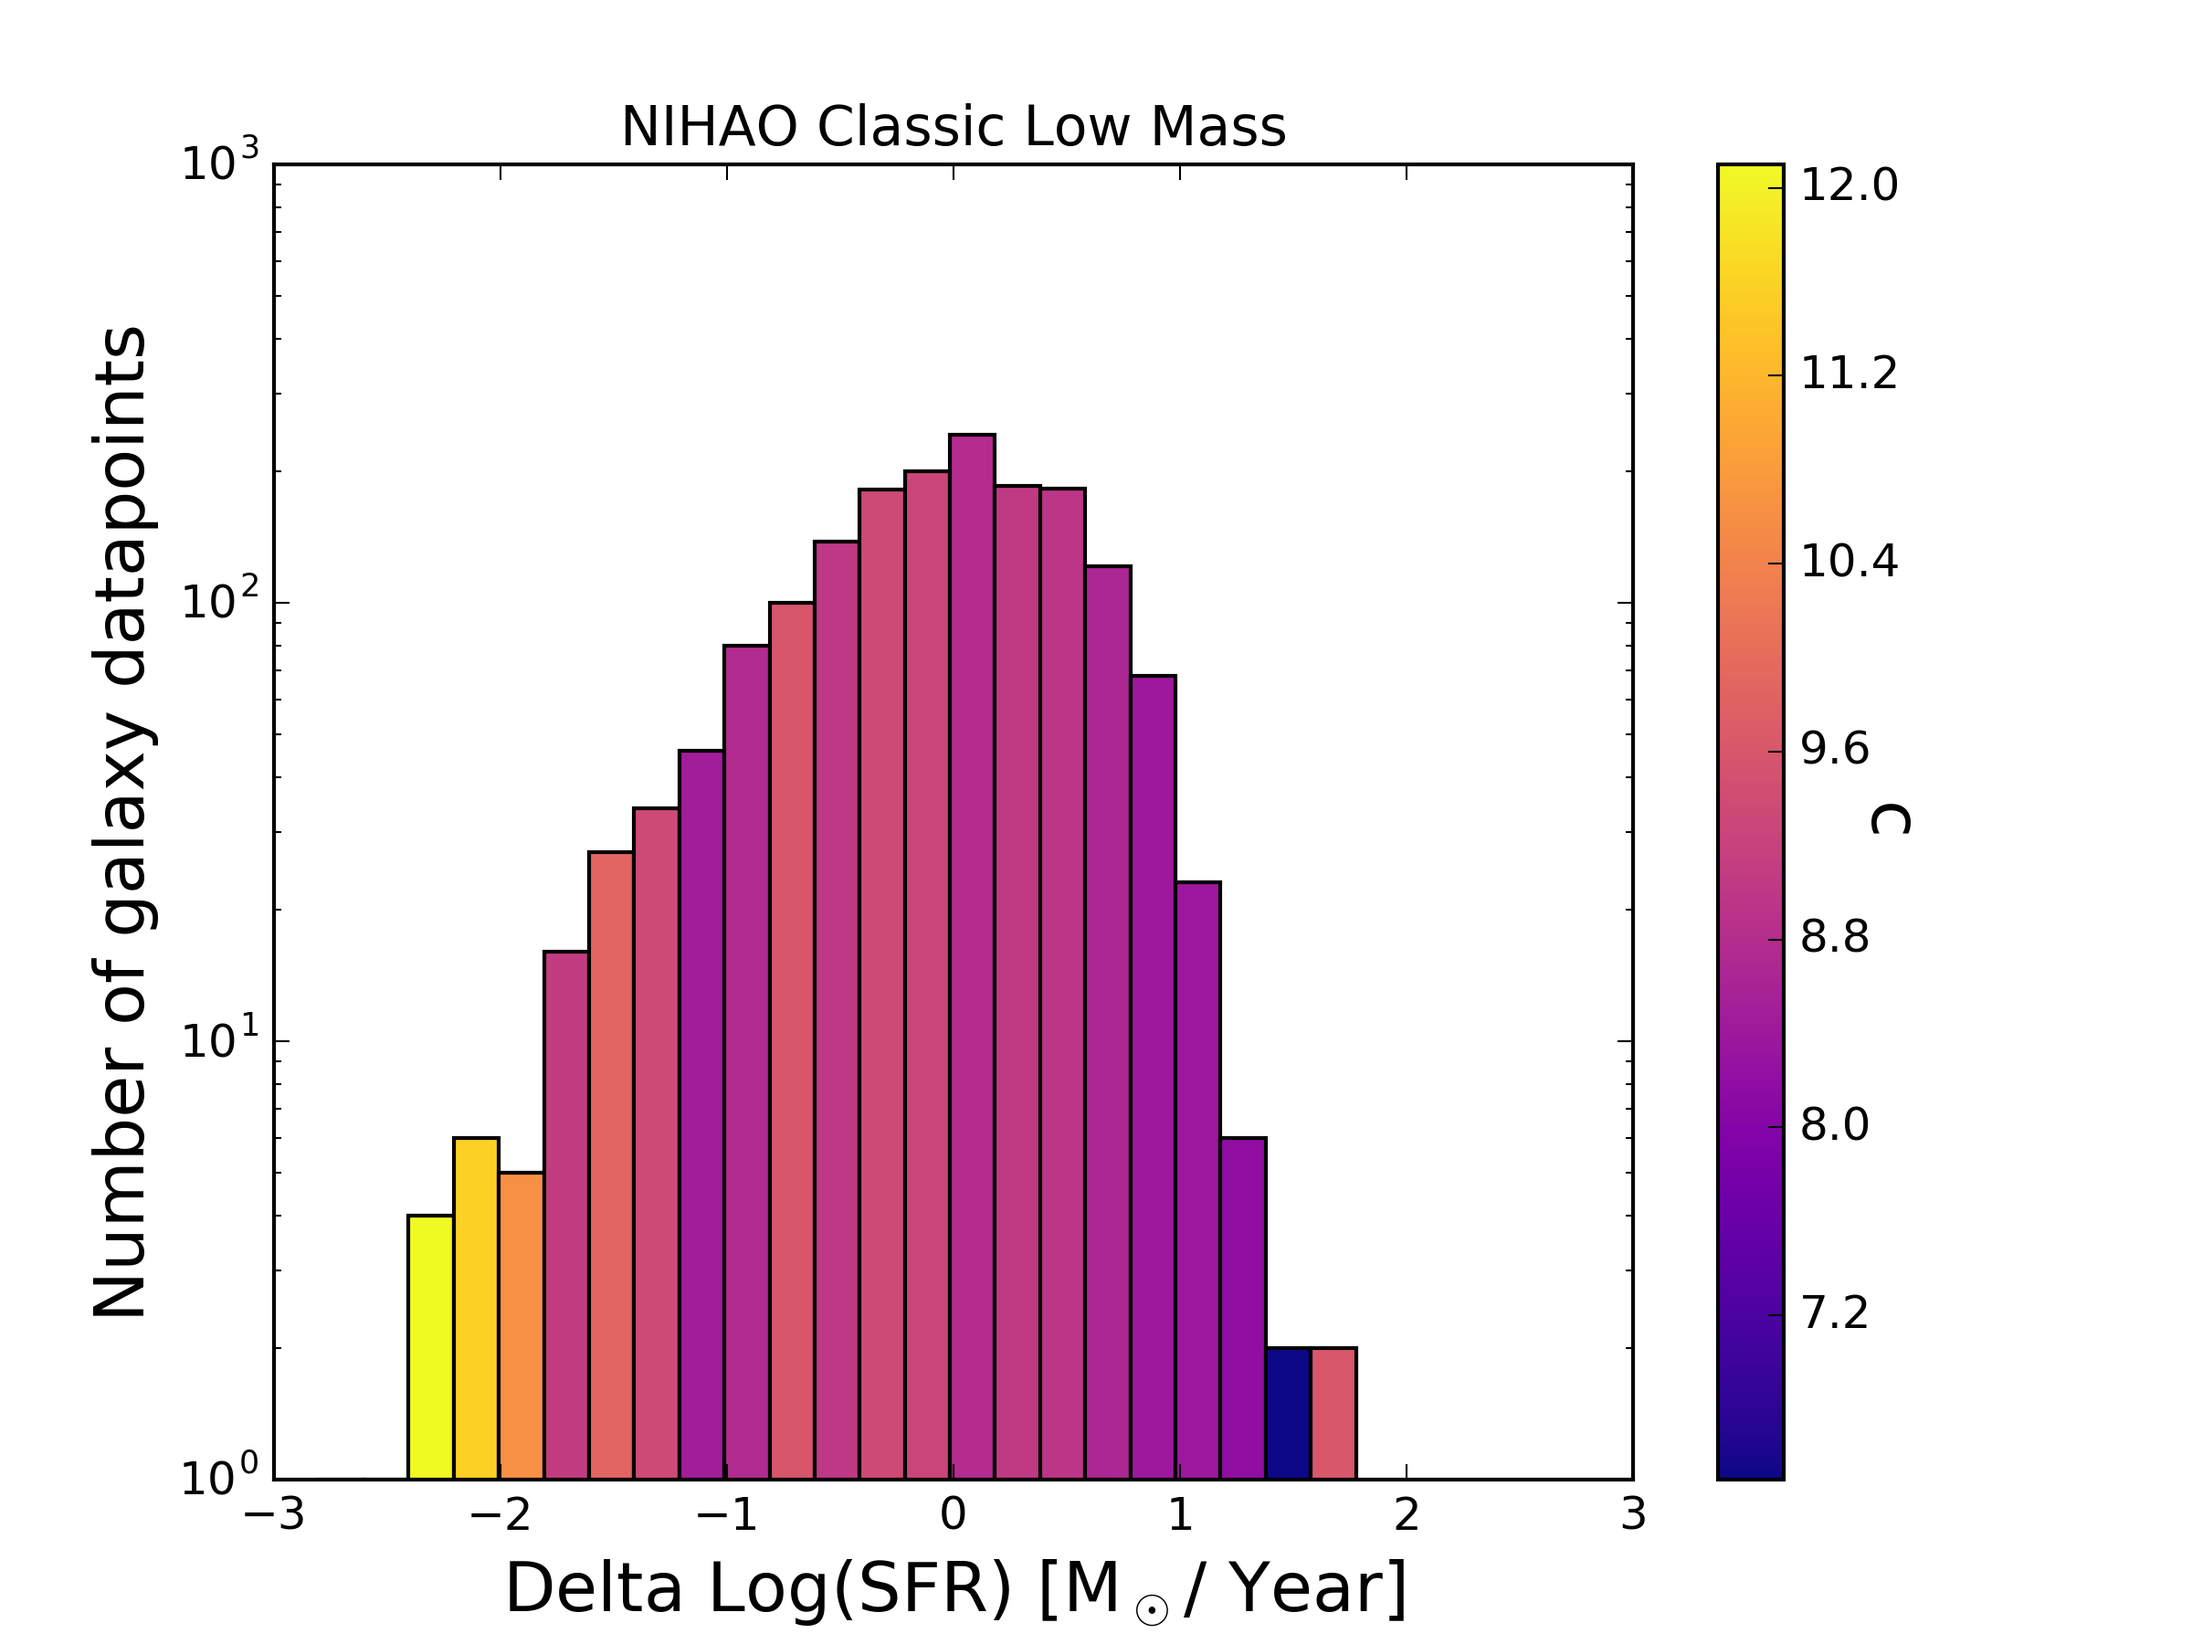
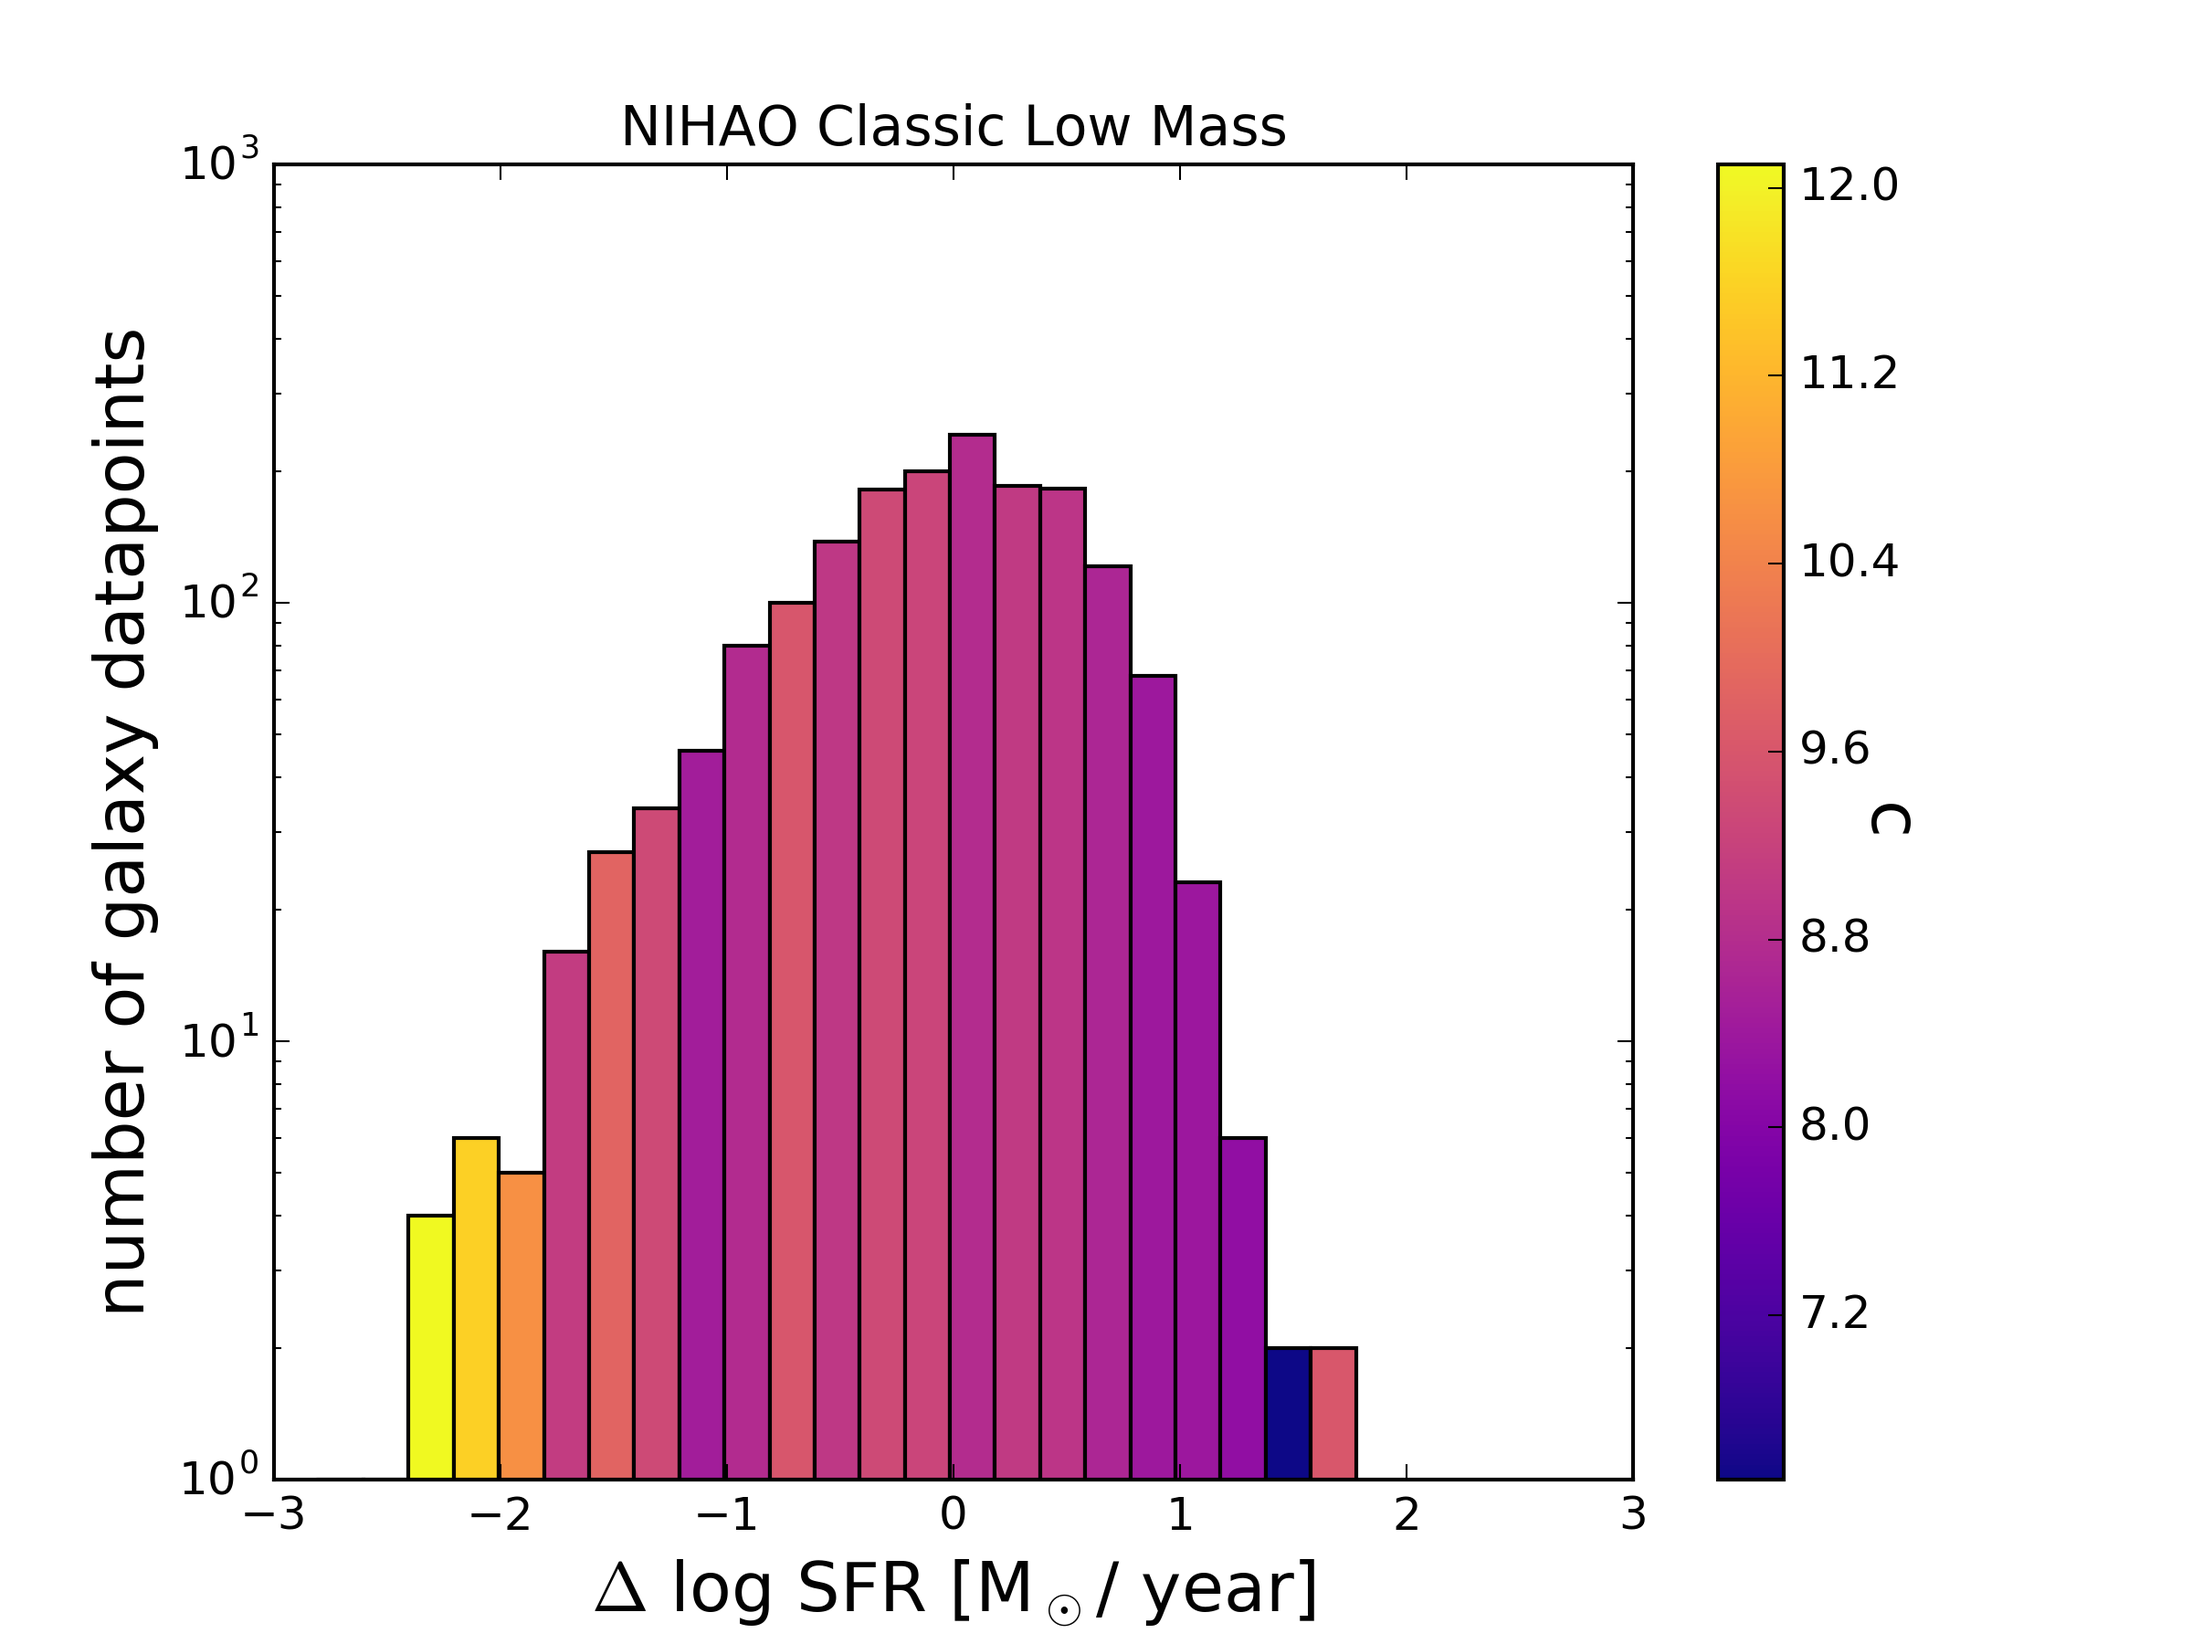
fix one

Changed region(s): [[0.2188, 0.9333, 0.625, 0.9956], [0.0312, 0.4356, 0.0625, 0.8089], [0.0312, 0.2178, 0.0625, 0.4044]]

diff --git a/5_histograms.py b/5_histograms.py
@@ -95,7 +95,7 @@ def plot_hist(deltas, concs, pointToRemove=[-1], minConc = 8, maxConc =11, binCo
     maxC = np.average(res_lst)
     minC = np.average(res_lst)
     for i, j in zip(n, res_lst):
-        if i < 7:
+        if i < 5:
             continue
         if j < minC:
             minC = j
@@ -127,8 +127,8 @@ def plot_hist(deltas, concs, pointToRemove=[-1], minConc = 8, maxConc =11, binCo
            #patches[i].set_facecolor(cmap(norm(res_lst[i],min(res_lst), max(res_lst) )))
     cbar = plt.colorbar(sm,)
     cbar.set_label('c', rotation=270, fontsize=18)
-    plt.ylabel("Number of galaxy datapoints", fontsize=18)
-    plt.xlabel("Delta Log(SFR) [M$_\odot$/ Year]", fontsize=18)
+    plt.ylabel("number of galaxy datapoints", fontsize=18)
+    plt.xlabel("$\Delta$ log SFR [M$_\odot$/ year]", fontsize=18)
     plt.xlim(-3, 3)
     plt.yscale('log')
     plt.title(plotTitle)
@@ -259,7 +259,7 @@ plot_hist(delta_list, conc_list,pointToRemove=[2], minConc=5, maxConc=11.5,  plo
 #NIHAO Classis High Mass
 avgFitDict = make_fits(galDict)
 delta_list, conc_list = make_delta_conc_lists(highMassGals, galDict, allConc, avgFitDict)
-plot_hist(delta_list, conc_list, minConc=6, maxConc=9.6, plotTitle = 'NIHAO Classic High Mass')
+plot_hist(delta_list, conc_list, pointToRemove=[21], minConc=6, maxConc=9.6, plotTitle = 'NIHAO Classic High Mass')
 
 #NIHAO Classis Low Mass
 avgFitDict = make_fits(galDict)
